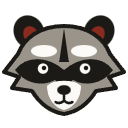
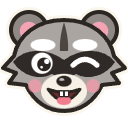
Name the site Book Visualizer, with a cheerful cartoon raccoon
- Book Visualizer in the masthead, browser tab, footer, About, README and start-up
- The mascot is now a smiling cartoon raccoon (a wink, buck teeth, pink ears and
  cheeks) with a cream sticker border so it works in light and dark mode; the
  browser-tab icon is redrawn from it

Claude-Session: https://claude.ai/code/session_01BnkdUsqyjNacC7diNEZDs3

diff --git a/app/design.py b/app/design.py
@@ -324,7 +324,7 @@ ABOUT = {
         "Hi, I'm Khaldoun. I live in Barcelona and work in data analytics. I studied data analysis and "
         "digital innovation at the University of Barcelona, which is where Python and machine learning "
         "first got me hooked.",
-        "Raccoonatron is a passion project, made purely for fun while I keep learning AI and programming. "
+        "Book Visualizer is a passion project, made purely for fun while I keep learning AI and programming. "
         "It began as a small experiment in 2020 and grew into this. Every AI model runs on my own computer, "
         "so your book never leaves it. Expect the odd mistake: the raccoon is still learning too.",
     ],
@@ -361,28 +361,37 @@ WORKFLOW = [
 # --- the emblem: the raccoon as a publisher's mark ----------------------------------------------
 
 
-def _emblem_svg(size: int, ink: str, paper: str, accent: str, fur: str = "#9a948a") -> str:
-    """The site's mascot as a small ink drawing: a raccoon's head (round ears, cheek tufts,
-    white brows and muzzle, the black mask), like a publisher's mark. Colours are CSS values,
-    so it follows light and dark mode."""
+def _emblem_svg(size: int, ink: str = "", paper: str = "", accent: str = "") -> str:
+    """The mascot: a cheerful cartoon raccoon (big ears, bandit mask, a wink, a toothy grin).
+    It has its own fixed colours, and a cream "sticker" border so it stands out on light and
+    dark pages alike. (The ink/paper/accent arguments are kept for the callers; unused.)"""
+    line = "#2b2622"
+    head = ("M32 10 C46 10 55 18 57 28 L62.5 34 L56 36.5 L59.5 41.5 L51 42.5 C47 51 40 55.5 32 55.5 "
+            "C24 55.5 17 51 13 42.5 L4.5 41.5 L8 36.5 L1.5 34 L7 28 C9 18 18 10 32 10 Z")
     return f"""<svg xmlns="http://www.w3.org/2000/svg" width="{size}" height="{size}" viewBox="0 0 64 64">
-      <ellipse cx="14.5" cy="16" rx="7.5" ry="8.5" transform="rotate(-28 14.5 16)" fill="{ink}"/>
-      <ellipse cx="49.5" cy="16" rx="7.5" ry="8.5" transform="rotate(28 49.5 16)" fill="{ink}"/>
-      <ellipse cx="15.5" cy="17.5" rx="3.6" ry="4.6" transform="rotate(-28 15.5 17.5)" fill="{accent}"/>
-      <ellipse cx="48.5" cy="17.5" rx="3.6" ry="4.6" transform="rotate(28 48.5 17.5)" fill="{accent}"/>
-      <path d="M32 13 C44 13 52 19 55 27 L62 36 L54.5 38.5 L58 44 L48 45.5 C44 52 38 56 32 57
-               C26 56 20 52 16 45.5 L6 44 L9.5 38.5 L2 36 L9 27 C12 19 20 13 32 13 Z"
-            fill="{fur}" stroke="{ink}" stroke-width="2" stroke-linejoin="round"/>
-      <ellipse cx="22" cy="25.5" rx="6.5" ry="3" fill="{paper}"/><ellipse cx="42" cy="25.5" rx="6.5" ry="3" fill="{paper}"/>
-      <path d="M32 14 L29.6 31 L34.4 31 Z" fill="{ink}"/>
-      <path d="M7.5 35 C13 27.5 24 28 32 35 C40 28 51 27.5 56.5 35 C51.5 42 42.5 43.5 36.5 40 L32 44
-               L27.5 40 C21.5 43.5 12.5 42 7.5 35 Z" fill="{ink}"/>
-      <circle cx="21.5" cy="34.3" r="2.6" fill="{paper}"/><circle cx="42.5" cy="34.3" r="2.6" fill="{paper}"/>
-      <circle cx="22" cy="34" r="1.1" fill="{ink}"/><circle cx="43" cy="34" r="1.1" fill="{ink}"/>
-      <path d="M23.5 43 C26 39.5 38 39.5 40.5 43 C40.5 49.5 36.5 54 32 55 C27.5 54 23.5 49.5 23.5 43 Z" fill="{paper}"/>
-      <ellipse cx="32" cy="45" rx="3.4" ry="2.4" fill="{ink}"/>
-      <path d="M32 47.4 L32 50.4 M32 50.4 Q29.6 52.3 27.8 51 M32 50.4 Q34.4 52.3 36.2 51" fill="none"
-            stroke="{ink}" stroke-width="1.3" stroke-linecap="round"/>
+      <g stroke="#fbf6ec" stroke-width="5" stroke-linejoin="round" fill="#fbf6ec">
+        <circle cx="14.5" cy="15" r="9"/><circle cx="49.5" cy="15" r="9"/><path d="{head}"/></g>
+      <circle cx="14.5" cy="15" r="9" fill="#8e8984" stroke="{line}" stroke-width="2"/>
+      <circle cx="49.5" cy="15" r="9" fill="#8e8984" stroke="{line}" stroke-width="2"/>
+      <circle cx="14.5" cy="15.5" r="4.6" fill="#f4a3b4"/><circle cx="49.5" cy="15.5" r="4.6" fill="#f4a3b4"/>
+      <path d="{head}" fill="#aaa5a0" stroke="{line}" stroke-width="2" stroke-linejoin="round"/>
+      <path d="M32 11 Q29.6 19 30 25.5 L34 25.5 Q34.4 19 32 11 Z" fill="#4c4642"/>
+      <ellipse cx="21.5" cy="22.5" rx="6.2" ry="3" fill="#fff"/><ellipse cx="42.5" cy="22.5" rx="6.2" ry="3" fill="#fff"/>
+      <path d="M6.5 31 C12 23.5 24 24 32 30 C40 24 52 23.5 57.5 31 C53 38 44 40.5 38 37 L32 40 L26 37
+               C20 40.5 11 38 6.5 31 Z" fill="#2f2a27"/>
+      <circle cx="21" cy="31.6" r="5.3" fill="#fff"/>
+      <circle cx="22" cy="32.2" r="3.4" fill="{line}"/>
+      <circle cx="23.4" cy="30.7" r="1.3" fill="#fff"/><circle cx="20.8" cy="33.6" r=".65" fill="#fff"/>
+      <path d="M36.5 32.6 Q42.5 26.8 48.5 32.6" fill="none" stroke="#fff" stroke-width="2.6" stroke-linecap="round"/>
+      <ellipse cx="32" cy="45.5" rx="11.5" ry="8.6" fill="#f7f0e6"/>
+      <circle cx="17.5" cy="43" r="3.4" fill="#f59aaa" opacity=".75"/><circle cx="46.5" cy="43" r="3.4" fill="#f59aaa" opacity=".75"/>
+      <path d="M24 44.6 Q32 56 40 44.6 Q32 47.6 24 44.6 Z" fill="#6e2b2e" stroke="{line}" stroke-width="1.5"
+            stroke-linejoin="round"/>
+      <ellipse cx="32" cy="50.3" rx="3.6" ry="2.2" fill="#f27d8f"/>
+      <rect x="29.7" y="45.4" width="2.2" height="2.9" rx=".5" fill="#fff" stroke="{line}" stroke-width=".7"/>
+      <rect x="32.1" y="45.4" width="2.2" height="2.9" rx=".5" fill="#fff" stroke="{line}" stroke-width=".7"/>
+      <ellipse cx="32" cy="40.6" rx="3.8" ry="2.7" fill="{line}"/>
+      <ellipse cx="30.9" cy="39.8" rx="1.2" ry=".7" fill="#fff" opacity=".7"/>
     </svg>"""
 
 
@@ -399,7 +408,7 @@ def emblem(size: int = 44) -> str:
     """The mascot's emblem as pictures, one per look; page_css shows the one that matches.
     (A picture, because st.html removes inline SVG drawings.)"""
     return "".join(f'<img class="ba-emblem em-{mode}" src="{_emblem_uri(mode)}" width="{size}" height="{size}" '
-                   f'alt="{"Raccoonatron’s raccoon" if mode == "light" else ""}">' for mode in EMBLEM_COLOURS)
+                   f'alt="{"The Book Visualizer raccoon" if mode == "light" else ""}">' for mode in EMBLEM_COLOURS)
 
 
 def favicon_svg() -> str:
@@ -437,7 +446,7 @@ def how_it_works() -> str:
         <div class="ba-kicker">Not a chatbot</div>
         <h3>Good old machine learning, not a large language model</h3>
         <p>Nothing here writes text or “understands” the book the way ChatGPT or Claude do, and nothing is sent
-        to an online AI service. Raccoonatron uses small, specialised machine-learning models, each trained for one
+        to an online AI service. Book Visualizer uses small, specialised machine-learning models, each trained for one
         narrow job: spotting names, linking pronouns, scoring a sentence's tone, tagging its emotions. Their
         answers are then counted and compared with plain statistics. Every model runs on this computer.</p>
         <p class="fine">To be exact: the tone and emotion models are built on RoBERTa, a small (125-million-parameter)
@@ -460,7 +469,7 @@ def about() -> str:
     links = " · ".join(f'<a href="{url}" target="_blank" rel="noopener">{escape(label)} ↗</a>'
                        for label, url in ABOUT["links"])
     return f"""<section class="ba-about">
-      <figure><img src="{image_uri("raccoon.jpg")}" alt="The Raccoonatron raccoon in headphones at a keyboard">
+      <figure><img src="{image_uri("raccoon.jpg")}" alt="The Book Visualizer raccoon in headphones at a keyboard">
       <figcaption>The raccoon, head of reading</figcaption></figure>
       <div><div class="ba-kicker">About · a passion project</div>
       <h2>Made for fun by {escape(ABOUT["name"])}</h2>{text}
@@ -472,7 +481,7 @@ def top_bar(title: str | None = None) -> str:
     """The masthead above the tabs on every page: the site's name and motto, then the open book."""
     book = (f'<span class="book" title="{escape(title)}">{escape(title)}</span>') if title else ""
     return f"""<header class="ba-top">
-      <div class="ba-mark">{emblem(58)}<div><b>Raccoonatron</b><span>A computational reading of the novel</span></div></div>
+      <div class="ba-mark">{emblem(58)}<div><b>Book Visualizer</b><span>A computational reading of the novel</span></div></div>
       <div class="ba-meta">{book}<span class="ba-sc">Local models · Your book stays on this computer</span></div>
     </header>"""
 
@@ -481,13 +490,13 @@ def footer() -> str:
     """The colophon at the bottom of every page."""
     links = " · ".join(f'<a href="{url}" target="_blank" rel="noopener">{escape(label)}</a>'
                        for label, url in ABOUT["links"])
-    return (f'<footer class="ba-foot"><span>{emblem(22)}<b>Raccoonatron</b>A passion project by {escape(ABOUT["name"])}. '
+    return (f'<footer class="ba-foot"><span>{emblem(22)}<b>Book Visualizer</b>A passion project by {escape(ABOUT["name"])}. '
             f'Every model runs locally; results are estimates.</span><span>{links}</span></footer>')
 
 
 def sidebar_title() -> str:
     return (f'<div class="ba-brand"><img src="{image_uri("raccoon-face.png")}" alt="">'
-            f'<div><b>Raccoonatron</b><span>with a raccoon at the keyboard</span></div></div>')
+            f'<div><b>Book Visualizer</b><span>with a raccoon at the keyboard</span></div></div>')
 
 
 def working_card(step: str = "") -> str:
@@ -676,7 +685,7 @@ def landing() -> str:
       and <i>The Great Gatsby</i>. Every model
       runs on this computer: the book is never sent anywhere.</p>
       </div>
-      <figure class="ba-mascot"><img src="{image_uri("raccoon.jpg")}" alt="The Raccoonatron raccoon in headphones at a keyboard">
+      <figure class="ba-mascot"><img src="{image_uri("raccoon.jpg")}" alt="The Book Visualizer raccoon in headphones at a keyboard">
       <figcaption>Your reader for today: the raccoon. Careful, quick, and fond of a good ending.</figcaption></figure>
       </div>
       <div class="ba-method">{method}</div>

diff --git a/app/streamlit_app.py b/app/streamlit_app.py
@@ -1,4 +1,4 @@
-"""Raccoonatron (the Book Analyzer website). Run from the project folder:
+"""Book Visualizer (the Book Analyzer website). Run from the project folder:
 
     .venv\\Scripts\\streamlit run app\\streamlit_app.py
 """
@@ -44,7 +44,7 @@ ENTITY_TYPES = {
 }
 KINDS = {"place": "Places", "organization": "Organizations", "group": "Groups and families", "other": "Other"}
 
-st.set_page_config(page_title="Raccoonatron", page_icon=str(ROOT / "app" / "assets" / "raccoon-emblem.png"),
+st.set_page_config(page_title="Book Visualizer", page_icon=str(ROOT / "app" / "assets" / "raccoon-emblem.png"),
                    layout="wide")
 MODE = "dark" if st.context.theme.type == "dark" else "light"
 theme = charts.THEMES[MODE]

diff --git a/CLAUDE.md b/CLAUDE.md
@@ -4,7 +4,7 @@ This file provides guidance to Claude Code (claude.ai/code) when working with co
 
 ## What this is
 
-Raccoonatron (formerly "Book Analyzer"; the folders keep the old name): upload an English novel (`.txt`) and get its characters, mention counts (names + pronouns), per-sentence sentiment and emotions, key moments, character relationships, places, and how all of these change chapter by chapter. Several ideas came from the owner's 2020 project (github.com/KhaldounN/book-analyzer-beta), reimplemented. A pure-Python analysis engine (`analyzer/`) plus a Streamlit website (`app/`). The owner is learning programming: explain changes simply.
+Book Visualizer (formerly "Book Analyzer", then briefly "Raccoonatron"; the folders keep the old name): upload an English novel (`.txt`) and get its characters, mention counts (names + pronouns), per-sentence sentiment and emotions, key moments, character relationships, places, and how all of these change chapter by chapter. Several ideas came from the owner's 2020 project (github.com/KhaldounN/book-analyzer-beta), reimplemented. A pure-Python analysis engine (`analyzer/`) plus a Streamlit website (`app/`). The owner is learning programming: explain changes simply.
 
 ## Versions (the owner's rule)
 
@@ -56,8 +56,8 @@ Key invariants:
 ### Website (`app/`)
 
 - `streamlit_app.py` is re-run top to bottom on every interaction. Analyses live in `st.session_state["analyses"][sha256]` with the user's merges, which are applied at render time. Finished analyses are pickled to `results/v{ANALYSIS_VERSION}-<sha256>.pkl`; the uploaded text itself is never saved.
-- **One continuous page (the owner's choice, replacing tabs on 2026-11-04).** `design.top_bar()` (masthead: the raccoon emblem, "Raccoonatron", the open book) sits above a sticky contents bar (`design.contents()` in a `st.container(key="toc")`; `div:has(> .st-key-toc)` is the sticky box, because Streamlit wraps containers in a box only as tall as they are). `TABS` in `streamlit_app.py` is now a dict of empty `st.container()`s made in reading order and filled further down (`with tab["..."]:`), so code stays grouped by topic. Parts (`st.header` via `section()`) and figures (`panel()` cards) are numbered by CSS counters (Part I…, Figure 1…) across the page; each `CONTENTS` anchor must match a `section()` title's anchor. The start page: landing, How it works, About. **How it works** (`design.how_it_works()`, `WORKFLOW`) says plainly that this is classic machine learning, not a chatbot/LLM, and lists the 7 steps with their models: keep it true when the pipeline changes. The look is a scholarly edition (Newsreader serif headings, warm paper, one oxblood accent, hairline rules, small caps). The sidebar lists all famous books at once (`st.radio` key `sample` in a scrolling container, sorted ignoring The/A/An, ⚡ = analyzed). The "Deploy" button is hidden (`client.toolbarMode = "minimal"`). No mention counts at the top (KPI cards, cast cards): owner's choice. Sections are made of rows (`panel()`): explanation and controls on the left, visualization on the right. **Every new visualization gets a `panel()` with an explanation.**
-- `design.py`: the hero, KPI cards (`kpis()` returns the data, `kpi_html()` the markup), cast legend and page CSS (`page_css`, injected with `st.html`). Fonts and page colours are in `.streamlit/config.toml`. `panel()` uses a keyed container (`st-key-panel-N`), which the CSS turns into a card. The owner's raccoon is the site's mascot (the site is named Raccoonatron): `design.emblem()` is an ink-drawn raccoon head shown as an `<img>` data URI (st.html strips inline SVG; one image per look, CSS hides the other), in the masthead, footer and `app/assets/raccoon-emblem.png` (browser tab); the raccoon photo (`app/assets/raccoon.jpg`) is on the start page and About; `design.raccoon_note()` is an aside in its voice. `MASCOT_LINES` needs a line for every `pipeline.STEPS` name (tested). While a book is analyzed, `app/raccoon.py` shows an animated cartoon raccoon (an SVG with CSS animations, drawn in code: no image files) doing each step's job; `raccoon.SCENES` also needs every step (tested).
+- **One continuous page (the owner's choice, replacing tabs on 2026-11-04).** `design.top_bar()` (masthead: the raccoon emblem, "Book Visualizer", the open book) sits above a sticky contents bar (`design.contents()` in a `st.container(key="toc")`; `div:has(> .st-key-toc)` is the sticky box, because Streamlit wraps containers in a box only as tall as they are). `TABS` in `streamlit_app.py` is now a dict of empty `st.container()`s made in reading order and filled further down (`with tab["..."]:`), so code stays grouped by topic. Parts (`st.header` via `section()`) and figures (`panel()` cards) are numbered by CSS counters (Part I…, Figure 1…) across the page; each `CONTENTS` anchor must match a `section()` title's anchor. The start page: landing, How it works, About. **How it works** (`design.how_it_works()`, `WORKFLOW`) says plainly that this is classic machine learning, not a chatbot/LLM, and lists the 7 steps with their models: keep it true when the pipeline changes. The look is a scholarly edition (Newsreader serif headings, warm paper, one oxblood accent, hairline rules, small caps). The sidebar lists all famous books at once (`st.radio` key `sample` in a scrolling container, sorted ignoring The/A/An, ⚡ = analyzed). The "Deploy" button is hidden (`client.toolbarMode = "minimal"`). No mention counts at the top (KPI cards, cast cards): owner's choice. Sections are made of rows (`panel()`): explanation and controls on the left, visualization on the right. **Every new visualization gets a `panel()` with an explanation.**
+- `design.py`: the hero, KPI cards (`kpis()` returns the data, `kpi_html()` the markup), cast legend and page CSS (`page_css`, injected with `st.html`). Fonts and page colours are in `.streamlit/config.toml`. `panel()` uses a keyed container (`st-key-panel-N`), which the CSS turns into a card. The owner's raccoon is the site's mascot (the owner asked for it smiley and cartoonish): `design.emblem()` is a cheerful cartoon raccoon head (wink, buck teeth, cream sticker border so it works on both looks) shown as an `<img>` data URI (st.html strips inline SVG; one image per look, CSS hides the other), in the masthead, footer and `app/assets/raccoon-emblem.png` (browser tab); the raccoon photo (`app/assets/raccoon.jpg`) is on the start page and About; `design.raccoon_note()` is an aside in its voice. `MASCOT_LINES` needs a line for every `pipeline.STEPS` name (tested). While a book is analyzed, `app/raccoon.py` shows an animated cartoon raccoon (an SVG with CSS animations, drawn in code: no image files) doing each step's job; `raccoon.SCENES` also needs every step (tested).
 - **Looks (sidebar "Look": Light / Dark), `app/looks.py`:** both are Streamlit's own themes (`config.toml`), read from the browser's localStorage (`stActiveTheme-<path>-v2`) only when the page loads, so `looks.switch_script` writes that key and reloads once (a 10 s guard stops loops). The open book survives the reload because its sha is kept in the address (`?book=`), and the app reopens it from `results/` (merges and an edited title are not kept). `?look=` is followed only on a session's first run; after that the real theme wins, so Streamlit's settings menu still works. A "Fun" look with a raccoon buddy was built and removed at the owner's request. Note: `st.html` strips inline SVG of some kinds (that buddy had to be drawn in by script).
 - **About:** `design.ABOUT` holds the owner's short bio and links (it names no employers, the owner's choice: just "I work in data analytics"); `design.about()` shows it on the start page and as the last section ("About", also in "Jump to"). It says the site is a passion project made for fun.
 - `charts.py`: the Plotly figures. `THEMES` colours come from the dataviz skill's palette, validated for colourblind safety in light and dark mode.

diff --git a/README.md b/README.md
@@ -1,4 +1,4 @@
-# Raccoonatron
+# Book Visualizer
 
 Upload an English novel as a `.txt` file and explore:
 
